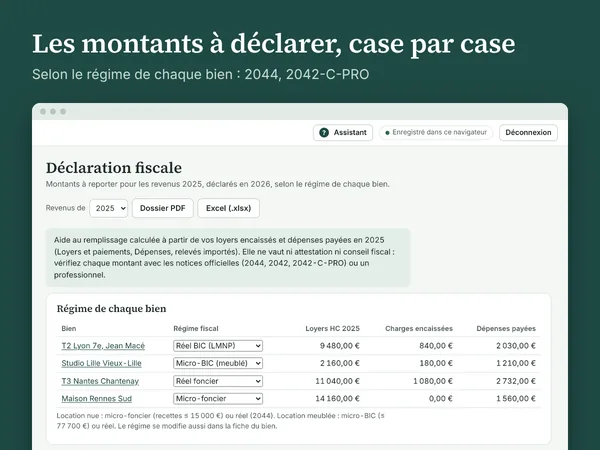
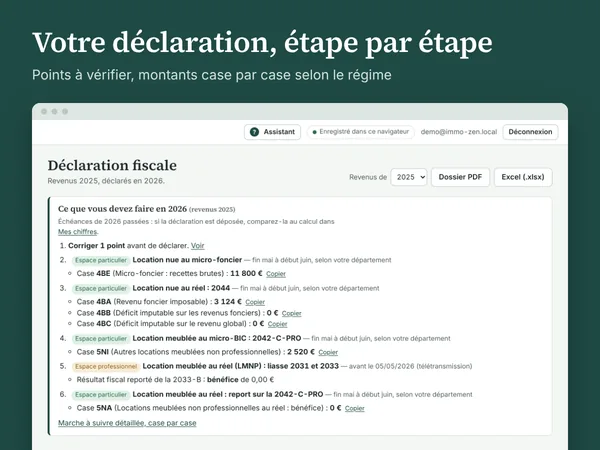
Site : captures de l'application refaites (tableau de bord, simulation, baux, bail, loyers, dépenses, déclaration en étapes) et 3 nouvelles (dossier banque, Mes biens en cartes, fiche du bien en onglets) ; script de captures reproductible (scripts/captures)
Claude-Session: https://claude.ai/code/session_01AxwCfzafQVDML73xe397NY

diff --git a/scripts/captures/run.ts b/scripts/captures/run.ts
@@ -1,0 +1,149 @@
+/**
+ * Captures de l'application pour le site vitrine (section « Immo-Zen en images ») et l'e-mail de bienvenue.
+ * Parc d'exemple fictif (scripts/captures/seed.ts) en mode démonstration, puis mise en page : fond vert, titre,
+ * fenêtre de navigateur. Produit site/img/app/<nom>.webp (1200 × 900), <nom>-600.webp et site/img/email/<nom>.jpg.
+ * Prérequis : npm run build. Usage : node --import tsx scripts/captures/run.ts [nom…]
+ */
+import { createServer } from 'node:http';
+import { readFile, mkdir, writeFile } from 'node:fs/promises';
+import { existsSync } from 'node:fs';
+import { execFileSync } from 'node:child_process';
+import { extname, join } from 'node:path';
+import { chromium, type Page } from 'playwright';
+import { seedDemo } from './seed.ts';
+
+const root = join(import.meta.dirname, '..', '..');
+const dist = join(root, 'dist');
+const tmp = join(root, 'test-results', 'captures');
+const TYPES: Record<string, string> = { '.html': 'text/html; charset=utf-8', '.js': 'text/javascript', '.mjs': 'text/javascript', '.css': 'text/css', '.png': 'image/png', '.svg': 'image/svg+xml', '.woff2': 'font/woff2', '.webp': 'image/webp' };
+
+interface Scene {
+  name: string; title: string; subtitle: string;
+  /** Prépare l'écran à photographier (route, clics) ; renvoie le chemin d'une image déjà prête (document PDF) le cas échéant. */
+  go(p: Page, ids: Ids): Promise<string | void>;
+  /** Hauteur à partir de laquelle commencer la capture de la page (défilement), en pixels de l'application. */
+  scrollTo?: string;
+  email?: boolean;
+}
+interface Ids { prospect: string; lyon: string; lyonLease: string }
+
+const SCENES: Scene[] = [
+  { name: 'tableau-de-bord', email: true, title: 'Tout votre parc d’un coup d’œil', subtitle: 'Loyers, cash-flow, impayés et prochaines actions',
+    go: async (p) => { await p.goto('#/'); await p.getByRole('heading', { name: 'Tableau de bord' }).waitFor(); } },
+  { name: 'simulation', email: true, title: 'Chiffrez chaque bien avant l’offre', subtitle: 'Coût total, crédit, cash-flow et rendement',
+    go: async (p, ids) => { await p.goto(`#/bien/${ids.prospect}`); await p.getByRole('tab', { name: 'Simulation' }).click(); } },
+  { name: 'dossier-banque', title: 'Un dossier prêt pour votre banque', subtitle: 'Chiffres clés, financement et taux d’endettement en PDF',
+    go: async (p, ids) => {
+      await p.goto(`#/bien/${ids.prospect}/modifier`);
+      await p.getByRole('button', { name: 'Dossier banque (PDF)' }).click();
+      const d = p.getByRole('dialog', { name: 'Dossier de financement pour la banque' });
+      await d.getByLabel('Emprunteur(s)').fill('Alex et Sam Exemple');
+      await d.getByLabel('Revenus nets mensuels du foyer').fill('6200');
+      await d.getByLabel('Crédits en cours').fill('0');
+      const [dl] = await Promise.all([p.waitForEvent('download'), d.getByRole('button', { name: 'Télécharger le PDF' }).click()]);
+      const pdf = join(tmp, 'dossier-banque.pdf'); await dl.saveAs(pdf);
+      execFileSync('pdftoppm', ['-png', '-r', '150', '-f', '1', '-l', '1', '-singlefile', pdf, join(tmp, 'dossier-banque-p1')]);
+      return join(tmp, 'dossier-banque-p1.png');
+    } },
+  { name: 'mes-biens', title: 'Vos biens, en cartes ou en tableau', subtitle: 'Loyer, cash-flow et état locatif de chaque logement',
+    go: async (p) => { await p.goto('#/biens'); await p.locator('.prop-card').first().waitFor(); } },
+  { name: 'fiche-bien', title: 'Une fiche par bien, rangée en onglets', subtitle: 'Location, finances, estimation, documents et historique',
+    go: async (p, ids) => { await p.goto(`#/bien/${ids.lyon}`); await p.getByRole('tab', { name: 'Finances' }).click(); } },
+  { name: 'baux-locataires', email: true, title: 'Baux et locataires au même endroit', subtitle: 'Loyer, charges, révision et état de chaque bail',
+    go: async (p) => { await p.goto('#/locataires'); await p.getByRole('heading', { name: /Locataires et baux/ }).waitFor(); } },
+  { name: 'bail', email: true, title: 'Le contrat de bail généré pour vous', subtitle: 'À partir des informations du bail, avec les points à vérifier',
+    go: async (p, ids) => { await p.goto(`#/baux/${ids.lyonLease}/contrat`); await p.getByRole('heading', { name: 'Contrat de bail' }).waitFor(); } },
+  { name: 'loyers', email: true, title: 'Loyers suivis, impayés repérés', subtitle: 'Paiements rapprochés, quittances envoyées seules',
+    go: async (p) => { await p.goto('#/loyers'); await p.locator('table.dt-table').first().waitFor(); } },
+  { name: 'depenses', email: true, title: 'Les dépenses classées par bien', subtitle: 'Saisie rapide ou import de vos relevés bancaires',
+    go: async (p) => { await p.goto('#/depenses'); await p.locator('table.dt-table').first().waitFor(); } },
+  { name: 'declaration', email: true, title: 'Votre déclaration, étape par étape', subtitle: 'Points à vérifier, montants case par case selon le régime',
+    go: async (p) => { await p.goto('#/declaration'); await p.getByRole('tab', { name: /Mes chiffres/ }).click(); } },
+];
+
+async function main() {
+  const only = process.argv.slice(2);
+  await mkdir(tmp, { recursive: true });
+  const server = createServer(async (req, res) => {
+    const path = decodeURIComponent((req.url ?? '/').split('?')[0]!);
+    const file = path.startsWith('/_tmp/') ? join(tmp, path.slice(6)) : join(dist, path.endsWith('/') ? `${path}index.html` : path);
+    if (!existsSync(file)) { res.writeHead(404); res.end(); return; }
+    res.writeHead(200, { 'content-type': TYPES[extname(file)] ?? 'application/octet-stream', 'access-control-allow-origin': '*' }); res.end(await readFile(file));
+  });
+  await new Promise<void>((r) => server.listen(0, '127.0.0.1', () => r()));
+  const base = `http://127.0.0.1:${(server.address() as { port: number }).port}`;
+  const browser = await chromium.launch({ executablePath: process.env.CHROMIUM_PATH });
+
+  const today = new Intl.DateTimeFormat('en-CA', { timeZone: 'Europe/Paris' }).format(new Date());
+  const store = await seedDemo(today);
+  const db = JSON.parse(store['immozen:demo:v1']!);
+  const lyon = db.properties.find((x: { title: string }) => x.title.startsWith('T2 Lyon'));
+  const ids: Ids = {
+    prospect: db.properties.find((x: { title: string }) => x.title.startsWith('T2 Paris')).id,
+    lyon: lyon.id, lyonLease: db.leases.find((l: { property_id: string }) => l.property_id === lyon.id).id,
+  };
+
+  const ctx = await browser.newContext({ locale: 'fr-FR', timezoneId: 'Europe/Paris', viewport: { width: 1100, height: 900 }, deviceScaleFactor: 2, acceptDownloads: true, baseURL: `${base}/app/` });
+  await ctx.route(/data\.geopf\.fr|files\.data\.gouv\.fr|geo\.api\.gouv\.fr/, (r) => r.fulfill({ contentType: 'application/json', headers: { 'access-control-allow-origin': '*' }, body: '{"features":[]}' }));
+  await ctx.addInitScript((s: Record<string, string>) => {
+    if (sessionStorage.getItem('seeded')) return;
+    localStorage.clear();
+    for (const [k, v] of Object.entries(s)) localStorage.setItem(k, v);
+    localStorage.setItem('immozen:vue:mes-biens', 'cartes');
+    localStorage.setItem('immozen:demarrage-masque', '1');
+    sessionStorage.setItem('seeded', '1');
+  }, store);
+  const page = await ctx.newPage();
+  page.setDefaultTimeout(10000);
+  const errors: string[] = [];
+  page.on('pageerror', (e) => errors.push(`${String(e)}`));
+  await page.goto('');
+
+  const frame = await browser.newPage({ viewport: { width: 1200, height: 900 }, deviceScaleFactor: 1 });
+  for (const s of SCENES.filter((x) => !only.length || only.includes(x.name))) {
+    const ready = await s.go(page, ids);
+    await page.addStyleTag({ content: '.sidenav{display:none!important} .topbar .brand,.nav-toggle,.demo-banner{display:none!important} .body{grid-template-columns:1fr!important} .toasts,.toast{display:none!important} *{scroll-behavior:auto!important}' });
+    await page.waitForTimeout(600);
+    let shot: string;
+    let isDoc = false;
+    if (ready) { shot = ready; isDoc = true; } else {
+      if (s.scrollTo) await page.locator(s.scrollTo).first().evaluate((el) => window.scrollTo(0, el.getBoundingClientRect().top + window.scrollY - 70)).catch(() => undefined);
+      else await page.evaluate(() => window.scrollTo(0, 0));
+      await page.waitForTimeout(300);
+      shot = join(tmp, `${s.name}-app.png`);
+      await page.screenshot({ path: shot });
+    }
+    const img = `/_tmp/${shot.split('/').pop()}`;
+    await frame.setContent(`<!doctype html><html><head><style>
+      @font-face { font-family: S; font-weight: 600; src: url(${base}/fonts/source-serif-4-latin-600-normal.woff2) format("woff2"); }
+      html,body{margin:0;width:1200px;height:900px;overflow:hidden;background:#1f4a45;font-family:system-ui,-apple-system,"Segoe UI",Roboto,sans-serif}
+      h1{position:absolute;left:64px;top:52px;margin:0;font:600 58px/1.1 S,serif;color:#fff;letter-spacing:-.01em}
+      p{position:absolute;left:64px;top:132px;margin:0;font-size:27px;line-height:1.3;color:#cfe0da}
+      .win{position:absolute;left:64px;top:206px;width:1072px;height:760px;background:#f4f6f4;border-radius:16px 16px 0 0;overflow:hidden;box-shadow:0 24px 60px rgba(0,0,0,.28)}
+      .bar{height:34px;background:#dde6e2;display:flex;gap:9px;align-items:center;padding-left:18px}.bar i{width:12px;height:12px;border-radius:50%;background:#b9c7c1;display:block}
+      .win img{display:block;width:1072px}
+      .doc{position:absolute;left:150px;top:206px;width:900px;height:760px;background:#fff;overflow:hidden;box-shadow:0 24px 60px rgba(0,0,0,.28);border-radius:6px 6px 0 0}
+      .doc img{display:block;width:900px}
+    </style></head><body><h1>${s.title}</h1><p>${s.subtitle}</p>${isDoc
+      ? `<div class="doc"><img src="${base}${img}"></div>`
+      : `<div class="win"><div class="bar"><i></i><i></i><i></i></div><img src="${base}${img}"></div>`}</body></html>`, { waitUntil: 'load' });
+    await frame.evaluate(() => document.fonts.ready);
+    const png = join(tmp, `${s.name}.png`);
+    await frame.screenshot({ path: png });
+    const outApp = join(root, 'site', 'img', 'app');
+    execFileSync('python3', ['-I', '-c', `
+import sys
+from PIL import Image
+src, name, app, email, mail = sys.argv[1:6]
+im = Image.open(src).convert('RGB')
+im.save(f'{app}/{name}.webp', 'WEBP', quality=82, method=6)
+im.resize((600, 450), Image.LANCZOS).save(f'{app}/{name}-600.webp', 'WEBP', quality=82, method=6)
+if mail == '1': im.resize((1040, 780), Image.LANCZOS).save(f'{email}/{name}.jpg', 'JPEG', quality=84, optimize=True, progressive=True)
+`, png, s.name, outApp, join(root, 'site', 'img', 'email'), s.email ? '1' : '0']);
+    process.stderr.write(`OK ${s.name}\n`);
+  }
+  await writeFile(join(tmp, 'errors.json'), JSON.stringify(errors, null, 1));
+  if (errors.length) process.stderr.write(`Erreurs JavaScript : ${errors.join(' | ')}\n`);
+  await browser.close(); server.close();
+}
+main().catch((e) => { console.error(e); process.exit(1); });

diff --git a/scripts/captures/seed.ts b/scripts/captures/seed.ts
@@ -1,0 +1,93 @@
+/**
+ * Parc d'exemple fictif pour les captures du site : 4 biens détenus avec crédit, baux, loyers encaissés
+ * (un impayé le mois dernier), dépenses, et un T2 à Paris 18e en prospection avec sa simulation.
+ * Produit le contenu du stockage du mode démonstration (JSON clé → valeur) à injecter dans le navigateur.
+ */
+import { createDemoRepo } from '../../src/data/demoRepo.ts';
+import { DEFAULT_INPUTS, simulate, summarize, ENGINE_VERSION, type SimulationInputs } from '../../src/domain/simulator.ts';
+
+function memStorage(): Storage & { dump(): Record<string, string> } {
+  const m = new Map<string, string>();
+  return { get length() { return m.size; }, clear: () => m.clear(), getItem: (k) => m.get(k) ?? null, key: (i) => [...m.keys()][i] ?? null,
+    removeItem: (k) => { m.delete(k); }, setItem: (k, v) => { m.set(k, String(v)); }, dump: () => Object.fromEntries(m) };
+}
+
+export async function seedDemo(today: string): Promise<Record<string, string>> {
+  const st = memStorage();
+  const repo = createDemoRepo(st);
+  const y = Number(today.slice(0, 4)); const mo = Number(today.slice(5, 7));
+  const month = (k: number) => { const d = new Date(Date.UTC(y, mo - 1 + k, 1)); return d.toISOString().slice(0, 10); }; // k mois avant/après le mois courant
+  const iso = (k: number, day: number) => month(k).slice(0, 8) + String(day).padStart(2, '0');
+
+  const owned = [
+    { title: 'T2 Lyon 7e, Jean Macé', address: '18 rue de Marseille', city: 'Lyon', zip: '69007', surface: 44, rooms: 2, dpe: 'C', furnished: true, rent: 790, charges: 70, regime: 'reel_bic', price: 189000, loan: 100000, rate: 3.6, years: 25, start: '2023-03-05', acq: '2023-02-10', tenant: ['Léa', 'Martin'], leaseStart: '2024-09-01' },
+    { title: 'Studio Lille Vieux-Lille', address: '7 rue de la Monnaie', city: 'Lille', zip: '59800', surface: 22, rooms: 1, dpe: 'D', furnished: true, rent: 585, charges: 45, regime: 'micro_bic', price: 112000, loan: 60000, rate: 3.9, years: 20, start: '2023-11-05', acq: '2023-10-12', tenant: ['Hugo', 'Bernard'], leaseStart: '2025-09-01' },
+    { title: 'T3 Nantes Chantenay', address: '42 boulevard de Chantenay', city: 'Nantes', zip: '44100', surface: 63, rooms: 3, dpe: 'D', furnished: false, rent: 920, charges: 90, regime: 'reel_foncier', price: 214000, loan: 140000, rate: 3.6, years: 25, start: '2024-06-05', acq: '2024-05-17', tenant: ['Sarah', 'Petit'], leaseStart: '2024-07-01' },
+    { title: 'Maison Rennes Sud', address: '5 allée des Tilleuls', city: 'Rennes', zip: '35200', surface: 88, rooms: 4, dpe: 'C', furnished: false, rent: 1180, charges: 0, regime: 'micro_foncier', price: 268000, loan: 170000, rate: 3.4, years: 25, start: '2025-02-05', acq: '2025-01-20', tenant: ['Thomas', 'Robert'], leaseStart: '2025-03-01' },
+  ] as const;
+
+  for (const [i, p] of owned.entries()) {
+    const prop = await repo.insert('properties', {
+      title: p.title, status: 'acquis', property_type: p.rooms === 4 ? 'maison' : 'appartement', address: p.address, city: p.city, acquisition_cost: Math.round(p.price * 1.08), zip: p.zip, surface: p.surface, rooms: p.rooms, dpe: p.dpe,
+      furnished: p.furnished, estimated_rent: p.rent, charges_provision: p.charges, asking_price: p.price, offer_price: p.price, property_tax_annual: 700 + i * 250,
+      copro_charges_annual: p.rooms === 4 ? 0 : 900 + i * 200, pno_annual: 140, loan_amount: p.loan, loan_rate: p.rate, loan_years: p.years, loan_start_date: p.start,
+      loan_insurance_monthly: Math.round(p.loan * 0.0012 / 12 * 100) / 100, acquired_at: p.acq,
+      estimate_low: Math.round(p.price * 1.02 / 1000) * 1000, estimate_high: Math.round(p.price * 1.14 / 1000) * 1000, estimate_median: Math.round(p.price * 1.08 / 1000) * 1000,
+      estimate_on: today, estimate_source: 'Ventes publiques (DVF) autour du bien', ownership_mode: 'nom_propre', tax_regime: p.regime, occupation_status: 'loue',
+    } as never) as { id: string };
+    {
+      const inp: SimulationInputs = { ...DEFAULT_INPUTS, rentMode: 'manuel', surface: p.surface, askingPrice: p.price, price: p.price, works: 0, monthlyRent: p.rent, downPayment: Math.max(0, Math.round(p.price * 1.08) - p.loan), interestRate: p.rate, loanYears: p.years, pnoAnnual: 140, propertyTaxAnnual: 700 + i * 250, coproChargesAnnual: p.rooms === 4 ? 0 : 900 + i * 200, chargesProvisionMonthly: p.charges };
+      const o = simulate(inp);
+      const scn = await repo.insert('scenarios', { property_id: prop.id, name: 'Hypothèses d’achat', inputs: inp, results: o.ok ? summarize(o.result) : null, engine_version: ENGINE_VERSION } as never) as { id: string };
+      const cur = (await repo.loadAll()).properties.find((x) => x.id === prop.id)!;
+      await repo.update('properties', prop.id, cur.version, { primary_scenario_id: scn.id } as never);
+    }
+    const tenant = await repo.insert('tenants', { first_name: p.tenant[0], last_name: p.tenant[1], email: `${p.tenant[0].toLowerCase()}.${p.tenant[1].toLowerCase()}@exemple.invalid`, phone: null, notes: null, archived_at: null } as never) as { id: string };
+    const lease = await repo.insert('leases', {
+      property_id: prop.id, label: null, furnished: p.furnished, start_date: p.leaseStart, end_date: null, rent_hc: p.rent, charges_amount: p.charges, charges_mode: 'provision',
+      deposit_amount: p.furnished ? p.rent * 2 : p.rent, payment_day: 5, landlord_name: 'Alex Exemple', landlord_address: '10 rue de l’Exemple, 75000 Paris', owner_confirmation_email: false,
+      receipt_auto_send: true, reminder_enabled: true, reminder_delay_days: 5, notes: null, irl_enabled: true,
+    } as never) as { id: string };
+    await repo.insert('lease_tenants', { lease_id: lease.id, tenant_id: tenant.id, left_on: null } as never);
+    await repo.generateCharges(lease.id, today);
+    // paiements : tous les mois réglés le 5, sauf le mois dernier pour le studio de Lille (impayé), et le mois courant pas encore échu après le 5
+    const snap = await repo.loadAll();
+    const charges = snap.charges.filter((c) => c.lease_id === lease.id && c.kind === 'loyer' && c.period_start <= today).sort((a, b) => a.period_start.localeCompare(b.period_start));
+    for (const c of charges) {
+      if (i === 1 && c.period_start === month(-1)) continue;
+      if (c.period_start === month(0) && Number(today.slice(8, 10)) < 6) continue;
+      const total = Math.round((c.rent_amount + c.charges_amount) * 100) / 100;
+      const pay = await repo.insert('payments', { lease_id: lease.id, amount: total, paid_on: c.period_start.slice(0, 8) + '05', date_defaulted: false, method: 'virement', reference: null, comment: null, source: 'saisie', period_month: c.period_start } as never) as { id: string };
+      await repo.insert('payment_allocations', { payment_id: pay.id, charge_id: c.id, amount: total } as never);
+    }
+    // dépenses de l'année passée et de l'année en cours
+    for (const yy of [y - 1, y]) {
+      const ex = [
+        { category: 'taxe_fonciere', label: 'Taxe foncière', amount: 700 + i * 250, d: `${yy}-10-15` },
+        { category: 'assurance', label: 'Assurance PNO', amount: 140, d: `${yy}-01-20` },
+        ...(p.rooms === 4 ? [] : [{ category: 'copropriete', label: 'Appel de fonds copropriété', amount: 900 + i * 200, d: `${yy}-04-01` }]),
+        ...(i === 0 ? [{ category: 'entretien', label: 'Remplacement chauffe-eau', amount: 640, d: `${yy}-03-12` }] : []),
+        ...(i === 2 ? [{ category: 'gestion', label: 'Frais de comptabilité', amount: 180, d: `${yy}-02-03` }] : []),
+      ].filter((e) => e.d <= today);
+      for (const e of ex) {
+        await repo.insert('expenses', { property_id: prop.id, expense_date: e.d, supplier: null, label: e.label, amount: e.amount, category: e.category, nature: 'charge', recoverable_amount: 0, payment_status: 'paye', paid_on: e.d, document_id: null, notes: null } as never);
+      }
+    }
+  }
+
+  // un bien en prospection, avec sa simulation
+  const prospect = await repo.insert('properties', {
+    title: 'T2 Paris 18e, Jules Joffrin', status: 'offre_envisagee', property_type: 'appartement', city: 'Paris', zip: '75018', surface: 38, rooms: 2, dpe: 'D', furnished: true,
+    asking_price: 240000, offer_price: 220000, works_budget: 8000, estimated_rent: 1200, property_tax_annual: 650, copro_charges_annual: 1300, pno_annual: 130,
+    next_action: 'Faire l’offre à 220 000 € après la 2e visite', follow_up_date: iso(0, 28),
+  } as never) as { id: string };
+  const inputs: SimulationInputs = { ...DEFAULT_INPUTS, rentMode: 'manuel', surface: 38, askingPrice: 240000, price: 220000, works: 8000, monthlyRent: 1200, downPayment: 70000, pnoAnnual: 130, propertyTaxAnnual: 650, coproChargesAnnual: 1300, coproRecoverableAnnual: 600, chargesProvisionMonthly: 70, vacancyAnnual: 575 };
+  const out = simulate(inputs);
+  const sc = await repo.insert('scenarios', { property_id: prospect.id, name: 'Offre à 220 000 €', inputs, results: out.ok ? summarize(out.result) : null, engine_version: ENGINE_VERSION } as never) as { id: string; version: number };
+  const p2 = (await repo.loadAll()).properties.find((x) => x.id === prospect.id)!;
+  await repo.update('properties', prospect.id, p2.version, { primary_scenario_id: sc.id } as never);
+  // tableau unique des loyers déjà en place (pas d'écran de reprise)
+  const set = (await repo.loadAll()).settings;
+  if (set) await repo.saveSettings(set.version, { rental_settings: { ...(set.rental_settings ?? {}), ledger_unified_at: new Date().toISOString() } } as never);
+  return st.dump();
+}

diff --git a/site/index.html b/site/index.html
@@ -94,7 +94,7 @@
       <div class="wrap apercu-head">
         <div>
           <h2 id="apercu-title">Immo-Zen en images</h2>
-          <p class="intro">De l'annonce à la déclaration, avec un parc d'exemple fictif de quatre logements.</p>
+          <p class="intro">De l'annonce au dossier pour la banque, de la gestion des loyers à la déclaration : un parc d'exemple fictif de quatre logements.</p>
         </div>
         <div class="shots-nav" aria-hidden="true">
           <button type="button" class="shots-prev" tabindex="-1">‹</button>
@@ -103,14 +103,17 @@
       </div>
       <div class="shots" role="region" aria-label="Captures d'écran de l'application, défilement horizontal" tabindex="0">
         <ul role="list">
-          <li><a href="img/app/tableau-de-bord.webp"><img src="img/app/tableau-de-bord-600.webp" srcset="img/app/tableau-de-bord-600.webp 600w, img/app/tableau-de-bord.webp 1200w" sizes="(max-width: 760px) 84vw, 440px" width="1200" height="900" loading="eager" decoding="async" alt="Tableau de bord d’un parc de quatre biens : cash-flow prévisionnel, loyers impayés, quittances à émettre et actions à faire"></a></li>
-          <li><a href="img/app/simulation.webp"><img src="img/app/simulation-600.webp" srcset="img/app/simulation-600.webp 600w, img/app/simulation.webp 1200w" sizes="(max-width: 760px) 84vw, 440px" width="1200" height="900" loading="eager" decoding="async" alt="Simulation d’un T2 à Paris 18e affiché 240 000 € avec une offre à 220 000 € : coût total, crédit et cash-flow"></a></li>
-          <li><a href="img/app/baux-locataires.webp"><img src="img/app/baux-locataires-600.webp" srcset="img/app/baux-locataires-600.webp 600w, img/app/baux-locataires.webp 1200w" sizes="(max-width: 760px) 84vw, 440px" width="1200" height="900" loading="lazy" decoding="async" alt="Liste des baux et locataires : bien, locataire, type de location, loyer et état du bail"></a></li>
+          <li><a href="img/app/tableau-de-bord.webp"><img src="img/app/tableau-de-bord-600.webp" srcset="img/app/tableau-de-bord-600.webp 600w, img/app/tableau-de-bord.webp 1200w" sizes="(max-width: 760px) 84vw, 440px" width="1200" height="900" loading="eager" decoding="async" alt="Tableau de bord d’un parc fictif de quatre biens : cash-flow prévisionnel, loyers impayés, quittances à émettre et actions à faire"></a></li>
+          <li><a href="img/app/simulation.webp"><img src="img/app/simulation-600.webp" srcset="img/app/simulation-600.webp 600w, img/app/simulation.webp 1200w" sizes="(max-width: 760px) 84vw, 440px" width="1200" height="900" loading="eager" decoding="async" alt="Fiche d’un T2 à Paris 18e affiché 240 000 € avec une offre à 220 000 € : simulation, coût total, crédit, rendement et cash-flow"></a></li>
+          <li><a href="img/app/dossier-banque.webp"><img src="img/app/dossier-banque-600.webp" srcset="img/app/dossier-banque-600.webp 600w, img/app/dossier-banque.webp 1200w" sizes="(max-width: 760px) 84vw, 440px" width="1200" height="900" loading="lazy" decoding="async" alt="Dossier de financement en PDF pour la banque : projet en bref, chiffres clés, apport et prêt, taux d’endettement"></a></li>
+          <li><a href="img/app/mes-biens.webp"><img src="img/app/mes-biens-600.webp" srcset="img/app/mes-biens-600.webp 600w, img/app/mes-biens.webp 1200w" sizes="(max-width: 760px) 84vw, 440px" width="1200" height="900" loading="lazy" decoding="async" alt="Mes biens en cartes : loyer, cash-flow de l’année, estimation de prix et locataire de chaque logement"></a></li>
+          <li><a href="img/app/fiche-bien.webp"><img src="img/app/fiche-bien-600.webp" srcset="img/app/fiche-bien-600.webp 600w, img/app/fiche-bien.webp 1200w" sizes="(max-width: 760px) 84vw, 440px" width="1200" height="900" loading="lazy" decoding="async" alt="Fiche d’un bien détenu rangée en onglets (vue d’ensemble, location, finances, estimation, documents, historique, tâches) : onglet Finances"></a></li>
+          <li><a href="img/app/baux-locataires.webp"><img src="img/app/baux-locataires-600.webp" srcset="img/app/baux-locataires-600.webp 600w, img/app/baux-locataires.webp 1200w" sizes="(max-width: 760px) 84vw, 440px" width="1200" height="900" loading="lazy" decoding="async" alt="Liste des baux et locataires : bien, locataire, type de location, loyer, charges, état du bail et solde"></a></li>
           <li><a href="img/app/bail.webp"><img src="img/app/bail-600.webp" srcset="img/app/bail-600.webp 600w, img/app/bail.webp 1200w" sizes="(max-width: 760px) 84vw, 440px" width="1200" height="900" loading="lazy" decoding="async" alt="Génération d’un contrat de location meublée à partir des informations du bail, avec les points à vérifier"></a></li>
           <li><a href="img/app/quittance.webp"><img src="img/app/quittance-600.webp" srcset="img/app/quittance-600.webp 600w, img/app/quittance.webp 1200w" sizes="(max-width: 760px) 84vw, 440px" width="1200" height="900" loading="lazy" decoding="async" alt="Quittance de loyer au format PDF pour la période d’octobre, avec le détail du loyer et des charges"></a></li>
-          <li><a href="img/app/loyers.webp"><img src="img/app/loyers-600.webp" srcset="img/app/loyers-600.webp 600w, img/app/loyers.webp 1200w" sizes="(max-width: 760px) 84vw, 440px" width="1200" height="900" loading="lazy" decoding="async" alt="Suivi des loyers : un loyer d’octobre non réglé repéré, avec le reste dû"></a></li>
-          <li><a href="img/app/depenses.webp"><img src="img/app/depenses-600.webp" srcset="img/app/depenses-600.webp 600w, img/app/depenses.webp 1200w" sizes="(max-width: 760px) 84vw, 440px" width="1200" height="900" loading="lazy" decoding="async" alt="Dépenses classées par bien et par catégorie, avec import depuis un fichier Excel ou CSV"></a></li>
-          <li><a href="img/app/declaration.webp"><img src="img/app/declaration-600.webp" srcset="img/app/declaration-600.webp 600w, img/app/declaration.webp 1200w" sizes="(max-width: 760px) 84vw, 440px" width="1200" height="900" loading="lazy" decoding="async" alt="Déclaration fiscale : régime de chaque bien, loyers encaissés et dépenses payées à reporter"></a></li>
+          <li><a href="img/app/loyers.webp"><img src="img/app/loyers-600.webp" srcset="img/app/loyers-600.webp 600w, img/app/loyers.webp 1200w" sizes="(max-width: 760px) 84vw, 440px" width="1200" height="900" loading="lazy" decoding="async" alt="Suivi des loyers : un loyer impayé repéré et reporté sur le mois suivant, avec le reste dû"></a></li>
+          <li><a href="img/app/depenses.webp"><img src="img/app/depenses-600.webp" srcset="img/app/depenses-600.webp 600w, img/app/depenses.webp 1200w" sizes="(max-width: 760px) 84vw, 440px" width="1200" height="900" loading="lazy" decoding="async" alt="Dépenses classées par bien et par catégorie, avec import depuis un relevé bancaire Excel ou CSV"></a></li>
+          <li><a href="img/app/declaration.webp"><img src="img/app/declaration-600.webp" srcset="img/app/declaration-600.webp 600w, img/app/declaration.webp 1200w" sizes="(max-width: 760px) 84vw, 440px" width="1200" height="900" loading="lazy" decoding="async" alt="Déclaration fiscale en étapes : ce qu’il faut faire, et les montants à reporter case par case selon le régime de chaque bien"></a></li>
         </ul>
       </div>
     </section>
